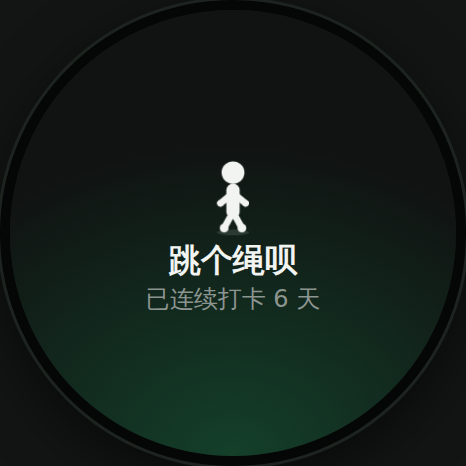
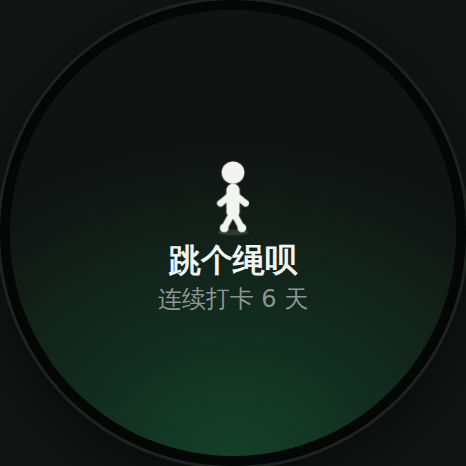
Mode page redesign + global copy trim + spacing audit fixes
- Mode select: title removed (cards self-explain), back becomes a
  bottom-left chevron icon, bottom-right Tips corner button; subs
  trimmed to '1 min · PB 118' / 'Goal 100 · Today 128' (zh mirrored)
- Copy pass: pause veil down to one line, launch streak line and
  tap-back hints shortened in both languages
- 0.5m-distance layout audit: settings page compacted (t22 rows,
  smaller chips) so 6 rows clear the title; best-records block
  re-balanced; celebrate text now warm-gold on a dark pill for
  punch within the 36px type cap
- Full 22x2 UI set regenerated; PRD sec4/FR-2.x updated

Claude-Session: https://claude.ai/code/session_01MZXpzSkZDw4hTcUnQ2UQRA

Changed region(s): [[0.3004, 0.6009, 0.691, 0.691]]

diff --git a/docs-and-demo/demo.html b/docs-and-demo/demo.html
@@ -296,16 +296,27 @@
   .tip-slide .ttxt { font-size: var(--t28); font-weight: 700; max-width: 82%; line-height: 1.3; }
   .tip-dots { display: flex; gap: .5em; margin-top: .2em; }
   #a-best .set-rows { gap: .3em; }
-  #a-best .hbody { margin-bottom: 1.3em; }
+  #a-best .hbody { margin-bottom: .7em; }
   #a-best .srow { font-size: var(--t22); }
-  #a-set .hbody { margin-bottom: 1.7em; }
-  #a-set .set-rows { gap: .45em; }
+  #a-set .hbody { margin-bottom: 1.2em; }
+  #a-set .set-rows { gap: .4em; }
+  #a-set .srow { font-size: var(--t22); }
+  #a-set .a-goal-chip.sm { font-size: var(--t22); padding: .22em .85em; }
   .srow .a-goal-chip.sm { font-size: var(--t24); min-width: 4.2em; padding: .26em .8em; }
   .srow .bval { font-size: var(--t32); font-weight: 800; color: var(--accent); font-variant-numeric: tabular-nums; }
 
   /* 模式选择页 */
-  #a-mode { gap: .55em; z-index: 2; }
-  .mode-title { font-size: var(--t32); font-weight: 700; }
+  #a-mode { gap: .8em; z-index: 2; }
+  /* 角落小按钮(圆屏安全区内):左=返回图标,右=Tips */
+  .corner-btn {
+    position: absolute; bottom: 8.5%;
+    background: none; border: none; cursor: pointer; font-family: inherit;
+    color: var(--stage-soft); font-size: var(--t24); font-weight: 700;
+    padding: .25em .55em; line-height: 1;
+  }
+  .corner-btn.left { left: 17%; font-size: var(--t36); padding-top: 0; }
+  .corner-btn.right { right: 15%; }
+  .corner-btn:active { color: var(--accent); }
   .mode-opt {
     width: 80%;
     background: #1B201D;
@@ -570,8 +581,11 @@
   }
   .celebrate.show { display: flex; }
   .celebrate .txt {
-    font-size: var(--t36); font-weight: 800; color: #fff;
-    text-shadow: 0 4px 24px rgba(0,0,0,.4);
+    font-size: var(--t36); font-weight: 800; color: #FFDB80;   /* 打击金(--gold 在本系统为深绿) */
+    letter-spacing: .06em;
+    background: rgba(10, 12, 11, .78);
+    padding: .35em 1em; border-radius: 999px;
+    text-shadow: 0 4px 28px rgba(0, 0, 0, .6);
     animation: zoomin .5s;
   }
   @keyframes zoomin { from { transform: scale(.4); opacity: 0; } to { transform: scale(1); opacity: 1; } }
@@ -699,8 +713,8 @@
       </div>
 
       <!-- 模式选择（点"开始"后的中间页）：图标 + 标题 + 单行个人化副文案 -->
+      <!-- 模式选择:无标题(两张卡自解释),左下角返回图标 / 右下角 Tips -->
       <div class="ascreen" id="a-mode">
-        <div class="mode-title" data-i18n="modeTitle">选择模式</div>
         <button class="mode-opt" id="a-opt-timed">
           <span class="mode-ico" data-ico="clock"></span>
           <span class="mode-txt"><b data-i18n="modeTimed">限时跳</b><span id="a-opt-timed-sub"></span></span>
@@ -709,10 +723,8 @@
           <span class="mode-ico" data-ico="inf"></span>
           <span class="mode-txt"><b data-i18n="modeFree">不限时</b><span id="a-opt-free-sub"></span></span>
         </button>
-        <div class="a-chip-row">
-          <button class="a-goal-chip ghost-chip sm" id="a-mode-tips" data-i18n="howTitle">动作要领</button>
-          <button class="a-goal-chip ghost-chip sm" id="a-mode-back" data-i18n="back">返回</button>
-        </div>
+        <button class="corner-btn left" id="a-mode-back">‹</button>
+        <button class="corner-btn right" id="a-mode-tips">Tips</button>
       </div>
 
       <!-- 排行榜二级页 -->
@@ -741,7 +753,7 @@
           <div class="srow"><span data-i18n="setVoice">教练语音</span><button class="a-goal-chip sm" id="as-voice">开</button></div>
           <div class="srow"><span data-i18n="setBgm">背景音乐</span><button class="a-goal-chip sm" id="as-bgm">开</button></div>
         </div></div>
-        <div class="flip-hint" data-i18n="tapBackBlank">点按空白处返回</div>
+        <div class="flip-hint" data-i18n="tapBackBlank">点按返回</div>
       </div>
 
       <!-- 最佳战绩二级页（首页 PB 区块点击进入） -->
@@ -789,7 +801,7 @@
         <div class="a-bono-slot"><div id="a-bono-jump"></div></div>
         <div class="milestone-toast" id="a-toast"></div>
         <div class="pauseveil" id="a-pause">
-          <b data-i18n="paused">已暂停</b><span data-i18n="pausedSub">回到画面继续 · 离开 3 分钟自动结算</span>
+          <b data-i18n="paused">已暂停</b><span data-i18n="pausedSub">回到画面继续</span>
           <button class="atom-cta" data-act="resume" data-i18n="resume">继续</button>
           <button class="atom-cta" data-act="end" data-i18n="finishNow" style="background:#2B332E;box-shadow:none;">立即结算</button>
         </div>
@@ -1085,7 +1097,7 @@ if (LANG !== 'zh') LANG = 'en';
 const I18N = {
 zh: {
   appTitle: '跳个绳呗',
-  launchStreak: n => `已连续打卡 ${n} 天`, streakPre: '连续', streakPost: '天',
+  launchStreak: n => `连续打卡 ${n} 天`, streakPre: '连续', streakPost: '天',
   totalDays: n => `${n} 天`,
   today: n => `今日累计 ${n} 下`, total: '累计',
   todayBestLab: '今日最高', totalCnt: n => `${n} 下`,
@@ -1096,9 +1108,9 @@ zh: {
   viewAll: '查看全部', fullBoard: '完整榜单', allMedals: '全部勋章',
   bestTitle: '最佳战绩', bestRound: '单轮最多', best1: '1 分钟最佳', best2: '2 分钟最佳',
   bestDay: '单日累计最高', bestDayRounds: '单日轮数最多', bestStreak: '最长连胜', roundUnit: n => `${n} 轮`,
-  modeTitle: '选择模式', modeTimed: '限时跳', modeFree: '不限时', back: '返回',
-  timedSub: (m, pb) => `${m} 分钟倒计时${pb ? ` · 最佳 ${pb}` : ''}`,
-  freeSub: (g, t) => (g === 0 ? '自由模式' : `每日任务 ${g} 下`) + ` · 今日 ${t}`,
+  modeTimed: '限时跳', modeFree: '不限时', back: '返回',
+  timedSub: (m, pb) => `${m} 分钟${pb ? ` · 最佳 ${pb}` : ''}`,
+  freeSub: (g, t) => `目标 ${g} · 今日 ${t}`,
   medalsTitle: '勋章', boardTodayTitle: '排行榜',
   boardRound: '今日单轮', boardTimed: '1 分钟', boardStreak: '连胜',
   boardSubs: { round: '单轮最高 · 0 点重置', timed: '1 分钟历史最佳', streak: '连续打卡天数' },
@@ -1108,8 +1120,8 @@ zh: {
   goalVal: g => g === 0 ? '自由跳' : `${g} 下`, lenVal: m => `${m} 分钟`,
   off: '关', on: '开', adult: '成人',
   readyTip: '请站进画面<br>边缘变绿即可', readyHint: '离开画面会自动暂停',
-  paused: '已暂停', pausedSub: '回到画面继续 · 离开 3 分钟自动结算', resume: '继续', finishNow: '立即结算',
-  done: '完成', again: '再跳一轮', tapBack: '点按返回', tapBackBlank: '点按空白处返回',
+  paused: '已暂停', pausedSub: '回到画面继续', resume: '继续', finishNow: '立即结算',
+  done: '完成', again: '再跳一轮', tapBack: '点按返回', tapBackBlank: '点按返回',
   noRecQ: '还没有记录，跳一轮就有啦', noRecH: '还没有记录<br>跳完第一轮就有啦',
   loadMore: '加载更多',
   you: '你', first: '你是今日第一！',
@@ -1180,9 +1192,9 @@ en: {
   viewAll: 'View all', fullBoard: 'Full ranking', allMedals: 'All medals',
   bestTitle: 'Best Records', bestRound: 'Best round', best1: "Best 1' test", best2: "Best 2' test",
   bestDay: 'Best day total', bestDayRounds: 'Most rounds/day', bestStreak: 'Longest streak', roundUnit: n => `×${n}`,
-  modeTitle: 'Choose Mode', modeTimed: 'Timed', modeFree: 'Free Jump', back: 'Back',
-  timedSub: (m, pb) => `${m} min countdown${pb ? ` · PB ${pb}` : ''}`,
-  freeSub: (g, t) => (g === 0 ? 'Free mode' : `Daily goal ${g}`) + ` · today ${t}`,
+  modeTimed: 'Timed', modeFree: 'Free Jump', back: 'Back',
+  timedSub: (m, pb) => `${m} min${pb ? ` · PB ${pb}` : ''}`,
+  freeSub: (g, t) => `Goal ${g} · Today ${t}`,
   medalsTitle: 'Medals', boardTodayTitle: 'Ranking',
   boardRound: 'Round', boardTimed: '1-min', boardStreak: 'Streak',
   boardSubs: { round: 'round best · daily', timed: "1' all-time", streak: 'days in a row' },
@@ -1192,8 +1204,8 @@ en: {
   goalVal: g => g === 0 ? 'Free' : `${g}`, lenVal: m => `${m} min`,
   off: 'Off', on: 'On', adult: 'Adult',
   readyTip: 'Step into view<br>until the edge glows green', readyHint: 'Auto-pauses when you step out',
-  paused: 'Paused', pausedSub: 'Step back in to resume · auto-finish after 3 min', resume: 'Resume', finishNow: 'Finish now',
-  done: 'Done', again: 'One more', tapBack: 'Tap to go back', tapBackBlank: 'Tap anywhere to go back',
+  paused: 'Paused', pausedSub: 'Step back in to resume', resume: 'Resume', finishNow: 'Finish now',
+  done: 'Done', again: 'One more', tapBack: 'Tap to go back', tapBackBlank: 'Tap to go back',
   noRecQ: 'No records yet — jump a round!', noRecH: 'No records yet<br>your first round starts it',
   loadMore: 'Load more',
   you: 'You', first: "You're #1 today!",

diff --git a/docs-and-demo/jump-rope-mini-prd.md b/docs-and-demo/jump-rope-mini-prd.md
@@ -52,7 +52,7 @@ Atom OS 系统入口卡（Bono + 连续 N 天）
    │
    │ Start
    ▼
-模式选择（两个大选项卡：限时跳 / 不限时；副文案带个人化数据；底部[动作要领][返回]）
+模式选择（无标题——两张大卡自解释；副文案精简「1 分钟 · 最佳 X」「目标 N · 今日 X」；左下角返回图标 ‹，右下角 Tips）
    │ 选任一模式（无站位校验）
    ▼
 3 · 2 · 1 · BodyPark（品牌发令帧 0.75s）
@@ -79,10 +79,10 @@ Atom OS 系统入口卡（Bono + 连续 N 天）
 ### 5.2 模式选择
 | # | 需求 | 验收标准 |
 |---|---|---|
-| FR-2.1 | 两个大选项卡：**限时跳**（时钟图标）/ **不限时**（∞图标） | 图标为单色 SVG；选项卡带按压反馈 |
-| FR-2.2 | 副文案单行、个人化：限时=`N 分钟倒计时 · 最佳 X`；不限时=`每日任务 N · 今日 X` | 不折行；数据实时 |
-| FR-2.3 | 选择即开跳（无站位校验），返回钮回首页 | 点选后 ≤300ms 进入倒计时 |
-| FR-2.4 | 「动作要领」页 = **幻灯片形式（会后定稿）**：4 张，每张大号单色 SVG 图标 + 一句话（≤10 字）——并脚跳 / 交替跳单脚跳不计数 / 正对镜头全身入镜 / 手腕发力轻落地；点按翻页、末张点按返回、底部页点指示；**不做首跳自动弹出**（保持开跳零打扰），入口 = 模式选择页底部 + 设置页第一项 | 每张字数 ≤10；图标风格同品牌单色 SVG |
+| FR-2.1 | 两个大选项卡：**限时跳**（时钟图标）/ **不限时**（∞图标）；**页面无标题**（卡片自解释，小屏寸土寸金——会后定稿） | 图标为单色 SVG；选项卡带按压反馈 |
+| FR-2.2 | 副文案单行、个人化、极简：限时=`N 分钟 · 最佳 X`；不限时=`目标 N · 今日 X` | 不折行；数据实时 |
+| FR-2.3 | 选择即开跳（无站位校验）；**左下角 ‹ 返回图标**回首页 | 点选后 ≤300ms 进入倒计时 |
+| FR-2.4 | 「动作要领」页 = **幻灯片形式（会后定稿）**：4 张，每张大号单色 SVG 图标 + 一句话（≤10 字）——并脚跳 / 交替跳单脚跳不计数 / 正对镜头全身入镜 / 手腕发力轻落地；点按翻页、末张点按返回、底部页点指示；**不做首跳自动弹出**（保持开跳零打扰），入口 = 模式选择页**右下角 Tips 角标** + 设置页第一项 | 每张字数 ≤10；图标风格同品牌单色 SVG |
 
 ### 5.3 开跳流程
 | # | 需求 | 验收标准 |
